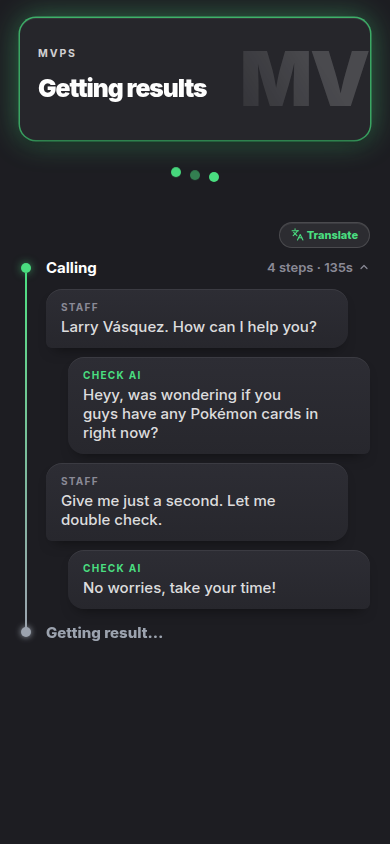
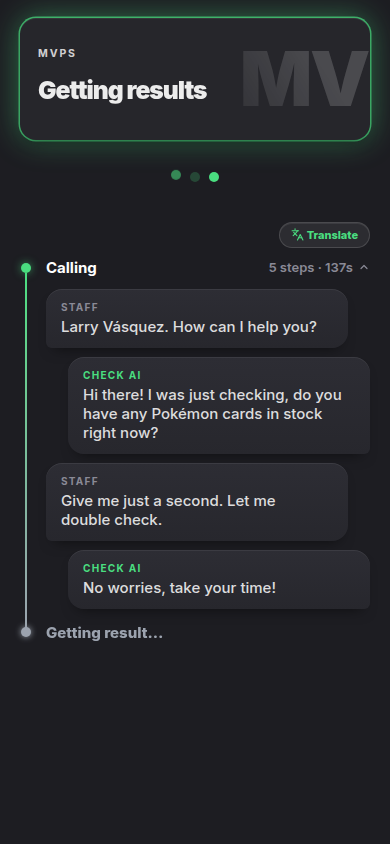
The record's facts decide over the reader at every settle door (check 390)
Three doors settle a verdict and only the sweep carried the rules for a
check that died mid-hold, our own cap, Staff hanging up, and the
never-a-straight-answer word. Check 390 settled through the on-demand
door and kept the reader's word. One shared decider now, run by the
sweep, the on-demand settle, and the webhook alike.

Claude-Session: https://claude.ai/code/session_01MuzQcfdidLJDRCETGYz4Ri

diff --git a/src/server.ts b/src/server.ts
@@ -25,7 +25,7 @@ import { allSettings, getSetting, setSetting } from "./db/settings";
 import { tuningForAdmin, callTuning } from "./calls/tuning"; // the numbers the owner tunes, and every other number a check reads
 import { costBuckets, STATUS_READ_USD } from "./calls/cost";
 import { importZonesData, geocodeMissing, backfillDirectChains, isDirectDefaultChain } from "./db/import-data";
-import { applyPreset, applySandboxToStores, applySandboxTuning, applyVoiceTuning, backfillHours, backfillPhones, benchTestCall, bridgeCheckCall, buildRestockVars, billableOutcome, callZone, canAffordZone, chargeCallOnce, cloneVoice, deletePreset, getCreditStatus, getLiveVoice, getSandboxTuning, getVoiceTuning, ingestPending, listPresets, listVoices, notifyAfterVerdict, placeAdHocCall, previewStorePrompt, provider, refreshHours, resetRotation, resolveWorkflow, retailersWithStatus, reverifyStampedHours, savePreset, schedulerTick, settleChecksLostToARestart, setActiveVoice, storeOpenInfo, transcriptPatch, triggerCall, findRecentCheck, zoneQuote } from "./calls/service";
+import { applyPreset, applySandboxToStores, applySandboxTuning, applyVoiceTuning, backfillHours, backfillPhones, benchTestCall, bridgeCheckCall, buildRestockVars, billableOutcome, callZone, canAffordZone, chargeCallOnce, cloneVoice, deletePreset, getCreditStatus, getLiveVoice, getSandboxTuning, getVoiceTuning, ingestPending, listPresets, listVoices, notifyAfterVerdict, placeAdHocCall, previewStorePrompt, provider, refreshHours, resetRotation, resolveWorkflow, retailersWithStatus, reverifyStampedHours, savePreset, schedulerTick, settleChecksLostToARestart, setActiveVoice, statusFromTheRecord, storeOpenInfo, transcriptPatch, triggerCall, findRecentCheck, zoneQuote } from "./calls/service";
 import { applyStoreSync, storeSyncTick, syncStatus, learnedSyncTick, learnedSyncStatus } from "./store-sync";
 import { buildSettingsExport, settingsSyncStatus, settingsSyncTick } from "./settings-sync";
 import { concurrencyStatus, acquireCallSlot, releaseCallSlot, governorEnabled } from "./calls/concurrency";
@@ -3725,8 +3725,12 @@ app.get("/pub/result/:cid", async (c) => {
       o.transcript, label || "the product", undefined, row.room,
     );
     const productDetail = productDetailLabel(second);
+    // THE RECORD'S FACTS DECIDE OVER THE READER AT THIS DOOR TOO (law 11, check 390): died
+    // mid-hold, our own cap, Staff hanging up, the never-a-straight-answer word — one shared
+    // decider, statusFromTheRecord, the same rules the sweep has always run.
+    const settledKey = await statusFromTheRecord(row.room, consensus.confirmed, consensus.statusKey, o.transcript);
     await db.update(callResults).set({
-      status: o.status, confirmed: consensus.confirmed, statusKey: consensus.statusKey,
+      status: o.status, confirmed: consensus.confirmed, statusKey: settledKey,
       shipmentDayHeard: o.shipmentDay, shipmentTimeHeard: (second?.restockTime ?? o.shipmentTime) ?? null, productDetail, summary: o.summary,
       // Ours if we recorded any, theirs only when we did not (transcriptPatch). This on-demand
       // finalize is what a customer refreshing the page hits, so it was blanking the transcript
@@ -3734,14 +3738,14 @@ app.get("/pub/result/:cid", async (c) => {
       ...(await transcriptPatch(row.id, o.transcript)),
       completedAt: Math.floor(Date.now() / 1000),
     }).where(eq(callResults.id, row.id));
-    const charged1 = !!(row.finderUserId && billableOutcome(consensus.statusKey, consensus.definitive, o.transcript));
+    const charged1 = !!(row.finderUserId && billableOutcome(settledKey, consensus.definitive, o.transcript));
     if (charged1) await chargeCallOnce(row.id, row.finderUserId!);
     // THE VERDICT TAIL RIDES EVERY DOOR (law 11). Three doors settle a verdict — the sweep, this
     // on-demand settle a watching customer triggers, and the webhook — and a check watched to the
     // end settles HERE first, so a tail written only by the sweep never lands on exactly the checks
     // the owner watches. Same recorder, same three rows, whichever door wins the race (the recorder
     // itself never writes a second verdict onto a check that has one).
-    void recordVerdict(row.id, consensus.statusKey ?? null, o.summary ?? null, o.durationSecs ?? 0,
+    void recordVerdict(row.id, settledKey ?? null, o.summary ?? null, o.durationSecs ?? 0,
       { secondReadModel: second ? VERDICT_MODEL : null, secondReadUsd: second ? STATUS_READ_USD : 0, decidedBy: lastClerkLine(o.transcript), charged: charged1 });
     dropLiveRead(row.room); // verdict written — let the room's live read go
     // This on-demand settle used to be the ONE finalize path that never sent the alerts, so a check
@@ -3749,7 +3753,7 @@ app.get("/pub/result/:cid", async (c) => {
     // poller and the webhook, claimed once per check. Fire-and-forget: the verdict response never
     // waits on an email provider.
     void notifyAfterVerdict(row.id);
-    return c.json({ ...(o ?? {}), status: o.status, confirmed: consensus.confirmed, statusKey: consensus.statusKey, ts: (row.startedAt || 0) * 1000, productDetail, shipmentDay: o.shipmentDay, shipmentTime: (second?.restockTime ?? o.shipmentTime) ?? null, charged: row.finderUserId ? consensus.definitive : false, summary: o.summary, transcript: (row.transcript && row.transcript.trim()) || o.transcript });
+    return c.json({ ...(o ?? {}), status: o.status, confirmed: consensus.confirmed, statusKey: settledKey, ts: (row.startedAt || 0) * 1000, productDetail, shipmentDay: o.shipmentDay, shipmentTime: (second?.restockTime ?? o.shipmentTime) ?? null, charged: row.finderUserId ? consensus.definitive : false, summary: o.summary, transcript: (row.transcript && row.transcript.trim()) || o.transcript });
   }
   // Truly mid-call → progress only, never a verdict (so a wrong key can't flash before the real one).
   return c.json(o ? { ...o, ts: row?.startedAt ? row.startedAt * 1000 : undefined } : { status: "in_progress", transcript: "", summary: "", ts: row?.startedAt ? row.startedAt * 1000 : undefined });
@@ -7773,7 +7777,9 @@ app.post("/webhooks/elevenlabs", async (c) => {
           { confirmed: o.confirmed, soldOut: o.soldOut, doesNotSell: o.doesNotSell, statusKey: o.statusKey },
           o.transcript, label || "the product", undefined, row?.room,
         );
-        confirmed = consensus.confirmed; statusKey = consensus.statusKey; definitive = consensus.definitive;
+        confirmed = consensus.confirmed; definitive = consensus.definitive;
+        // THE RECORD'S FACTS DECIDE OVER THE READER at the webhook door too (law 11, check 390).
+        statusKey = await statusFromTheRecord(row?.room, consensus.confirmed, consensus.statusKey, o.transcript);
         productDetail = productDetailLabel(second);
         restockDayHeard = second?.restockDay ?? null; // staff-volunteered restock day, captured even unprompted
       }

diff --git a/src/calls/service.ts b/src/calls/service.ts
@@ -1302,6 +1302,23 @@ export async function diedOnAHold(room: string | null | undefined): Promise<bool
   } catch { return false; }
 }
 
+/** THE RECORD'S FACTS DECIDE OVER THE READER, AT EVERY DOOR (law 11). Three doors settle a
+ *  verdict — the sweep, the on-demand settle a watching customer triggers, and the webhook — and
+ *  only the sweep carried these rules until check 390 (test seven) settled through the on-demand
+ *  door and kept the reader's "no clear answer" over a check that died mid-hold. The reader reads
+ *  the words; these facts are the check's own timeline, and they only ever speak over an answer we
+ *  do not have: if Staff came back and answered, that answer stands. */
+export async function statusFromTheRecord(
+  room: string | null | undefined, confirmed: boolean | null, statusKey: string | undefined,
+  transcript: string | null | undefined,
+): Promise<string | undefined> {
+  if (confirmed !== null) return statusKey;
+  if (await weHungUpOnAHold(room) || await diedOnAHold(room)) return "left_on_hold";
+  if (await staffHungUpOn(room)) return "staff_hung_up";
+  if (statusKey === "no_clear_answer" && keptAskingNoStraightAnswer(transcript)) return "no_straight_answer";
+  return statusKey;
+}
+
 /** Did the STORE end this check, read off the check's own timeline (the round 2 subtraction:
  *  we know every time it was us, so an ending that was not ours and not a failure is theirs).
  *  Never throws: a check must never fail to finalize because a lookup did. */
@@ -1433,20 +1450,9 @@ export async function ingestPending(): Promise<number> {
     // Only ever over an answer we do not have: if Staff came back and answered, that answer stands.
     // …and a hold that opened and never closed is the same fact from the customer's side, whoever
     // put the phone down (check 389: the store's hang-up beat our cap by two seconds and the check
-    // read "no clear answer" over a death mid-hold). Anchored on the hold events, not the hang-up
-    // row, so it cannot lose the settle-vs-hangup write race that hid 389's ending.
-    if (finalConfirmed === null && (await weHungUpOnAHold(row.room) || await diedOnAHold(row.room))) finalStatusKey = "left_on_hold";
-    // STAFF HUNG UP ON US BEFORE GIVING AN ANSWER (owner 08-04, the Hungup: Staff card). The engine
-    // already knows who put the phone down by subtraction; this is the customer's word for it. Only
-    // ever over an answer we do not have: an answer they gave before hanging up still stands.
-    else if (finalConfirmed === null && await staffHungUpOn(row.room)) finalStatusKey = "staff_hung_up";
-    // WE KEPT ASKING AND THEY NEVER GAVE US A STRAIGHT ANSWER (owner 08-07, a NEW status, never a
-    // rename). Only ever over Couldn't tell, and only on a check where their words really are on
-    // the record: every other reason above already has its own honest word and keeps it. Couldn't
-    // tell survives underneath this for the one case it was always meant for, which is a check
-    // where we could not make out what the person was saying.
-    else if (finalConfirmed === null && finalStatusKey === "no_clear_answer"
-      && keptAskingNoStraightAnswer(outcome.transcript)) finalStatusKey = "no_straight_answer";
+    // read "no clear answer" over a death mid-hold). ONE shared decider for all three settle doors
+    // (law 11, check 390) — see statusFromTheRecord above for each rule and its history.
+    finalStatusKey = await statusFromTheRecord(row.room, finalConfirmed, finalStatusKey, outcome.transcript);
 
     // Update the primary row (the line we called about).
     await db.update(callResults).set({
